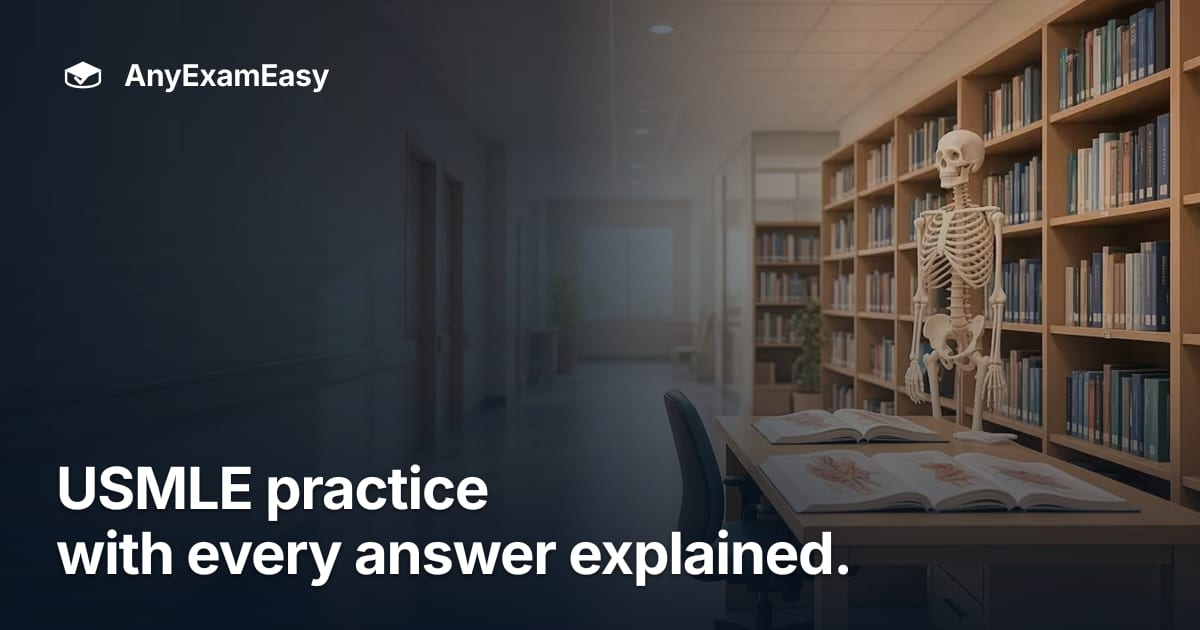
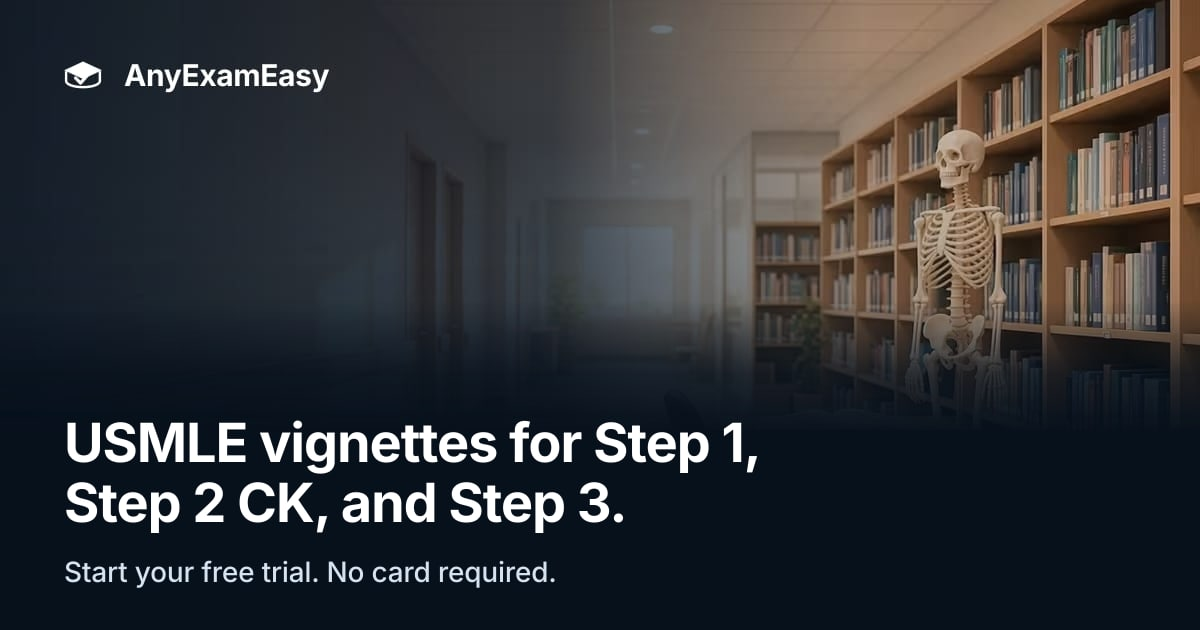
Replace share cards that still show the old price line (#411)
Homepage and board share images use the current headlines and a no-card trial line, and the board page titles and descriptions no longer include the monthly price.

Changed region(s): [[0.0308, 0.4825, 1.0, 0.9651]]

diff --git a/src/lib/marketing/board-landing/hub-model.ts b/src/lib/marketing/board-landing/hub-model.ts
@@ -80,7 +80,8 @@ const HUB_COPY: Record<HubExamKey, HubCopy> = {
     chipThird: "Anatomy Explorer, timed blocks, and readiness score — one Pro plan.",
     questionNoun: "USMLE questions",
     metaBoardLabel: HUB_META_LABEL.usmle,
-    metaDescription: `USMLE practice questions for Step 1, Step 2 CK, and Step 3 in one qbank. Try a free sample question. Pro is ${formatMonthlyPrice("pro")}/mo after a ${TRIAL_DAYS}-day trial. Cancel anytime.`,
+    metaDescription:
+      "USMLE practice questions for Step 1, Step 2 CK, and Step 3. Step-style vignettes with explanations for every choice and timed practice exams in one qbank.",
     keywords: [
       "USMLE practice questions",
       "USMLE Step 2 CK practice",
@@ -94,7 +95,8 @@ const HUB_COPY: Record<HubExamKey, HubCopy> = {
     chipThird: "Timed practice, readiness score, and six boards on one plan.",
     questionNoun: "PANCE questions",
     metaBoardLabel: HUB_META_LABEL.pance,
-    metaDescription: `PANCE practice questions and physician assistant board prep in a live qbank. Try a free sample question. Pro is ${formatMonthlyPrice("pro")}/mo after a ${TRIAL_DAYS}-day trial.`,
+    metaDescription:
+      "PANCE practice questions that show where the reasoning slips. Physician assistant vignettes, flashcards, a study guide, and timed practice exams.",
     keywords: [
       "PANCE practice questions",
       "PANCE qbank",
@@ -108,7 +110,8 @@ const HUB_COPY: Record<HubExamKey, HubCopy> = {
     chipThird: "Question of the Day, readiness score, and timed full exams.",
     questionNoun: "AANP FNP questions",
     metaBoardLabel: HUB_META_LABEL["aanp-fnp"],
-    metaDescription: `AANP FNP practice questions, nurse practitioner vignettes, and study guide chapters. Try a free sample. Pro is ${formatMonthlyPrice("pro")}/mo after a ${TRIAL_DAYS}-day trial.`,
+    metaDescription:
+      "AANP FNP practice questions across the lifespan. Family nurse practitioner vignettes, flashcards, a study guide, and timed practice exams for test day.",
     keywords: [
       "AANP FNP practice questions",
       "FNP certification prep",
@@ -122,7 +125,8 @@ const HUB_COPY: Record<HubExamKey, HubCopy> = {
     chipThird: "Anatomy Explorer, timed sets, and six boards on Pro.",
     questionNoun: "NPTE-PT questions",
     metaBoardLabel: HUB_META_LABEL["npte-pt"],
-    metaDescription: `NPTE-PT practice questions and physical therapy board prep in a live qbank. Try a free sample question. Pro is ${formatMonthlyPrice("pro")}/mo after a ${TRIAL_DAYS}-day trial.`,
+    metaDescription:
+      "NPTE-PT practice questions that explain the clinical why. Physical therapy scenarios, explanations for each choice, timed practice exams, and 3D anatomy review.",
     keywords: [
       "NPTE practice questions",
       "NPTE-PT qbank",

diff --git a/src/lib/marketing/board-landing/board-landing-copy.ts b/src/lib/marketing/board-landing/board-landing-copy.ts
@@ -1,14 +1,24 @@
-import { TRIAL_DAYS } from "@/lib/billing-config";
-import { formatMonthlyPrice } from "@/lib/site";
+import { boardHeroMarketingCopy } from "@/lib/marketing/board-landing/board-hero-marketing";
+import type { BoardSlug } from "@/lib/marketing/board-landing/board-theme";
 import { getExamSeoConfig, type ExamSeoKey } from "@/lib/seo/exam-config";
 
 /** Visible final band heading (matches primary CTA tone). */
 export const BOARD_LANDING_FINAL_HEADING = "Start free trial.";
 
-/** SEO title for board hubs — truthful trial, fits 60-char budget for every board label. */
+const META_TITLE_SLUG: Record<string, BoardSlug> = {
+  "NCLEX-RN": "nclex",
+  NAPLEX: "naplex",
+  USMLE: "usmle",
+  PANCE: "pance",
+  "AANP FNP": "aanp-fnp",
+  "NPTE-PT": "npte-pt",
+};
+
+/** SEO title for board hubs. Same words as the page H1, with no price. */
 export function boardLandingMetaTitle(boardLabel: string): string {
-  const price = formatMonthlyPrice("pro");
-  return `${boardLabel} Practice Questions + ${TRIAL_DAYS}-Day Free Trial | ${price}/mo`;
+  const slug = META_TITLE_SLUG[boardLabel];
+  if (!slug) return `${boardLabel} Practice Questions`;
+  return boardHeroMarketingCopy(slug).headline;
 }
 
 /** Breadcrumb / kicker board name on `/nclex`, `/npte-pt`, etc. */

diff --git a/src/lib/seo/landing-og-image.test.ts b/src/lib/seo/landing-og-image.test.ts
@@ -41,12 +41,12 @@ describe("landing share images", () => {
 
     const titles = [
       "NCLEX, NAPLEX, PANCE & USMLE Practice Questions",
-      "NCLEX-RN Practice Questions + 5-Day Free Trial | $27.99/mo",
-      "NAPLEX Practice Questions + 5-Day Free Trial | $27.99/mo",
-      "USMLE Practice Questions + 5-Day Free Trial | $27.99/mo",
-      "PANCE Practice Questions + 5-Day Free Trial | $27.99/mo",
-      "AANP FNP Practice Questions + 5-Day Free Trial | $27.99/mo",
-      "NPTE-PT Practice Questions + 5-Day Free Trial | $27.99/mo",
+      "NCLEX-RN questions that match the current test plan.",
+      "NAPLEX questions for the calculations and the drugs.",
+      "USMLE vignettes for Step 1, Step 2 CK, and Step 3.",
+      "PANCE vignettes that show where the reasoning slips.",
+      "AANP FNP vignettes across the lifespan, explained.",
+      "NPTE-PT questions that explain the clinical why.",
     ];
     const urls = pages.map(([, meta]) => imageUrl(meta));
     expect(new Set(urls).size).toBe(pages.length);

diff --git a/src/lib/marketing/board-landing/naplex.test.ts b/src/lib/marketing/board-landing/naplex.test.ts
@@ -44,8 +44,8 @@ describe("NAPLEX landing model", () => {
     expect(title.length).toBeLessThanOrEqual(SEO_TITLE_MAX);
     expect(description.length).toBeGreaterThanOrEqual(SEO_DESC_MIN);
     expect(description.length).toBeLessThanOrEqual(SEO_DESC_MAX);
-    expect(title).toMatch(/NAPLEX practice questions/i);
-    expect(description).toMatch(/\$27\.99/);
+    expect(title).toMatch(/NAPLEX questions/i);
+    expect(description).not.toMatch(/\$|one plan/i);
   });
 
   it("lists only live pharmacy item types and hides zeros", () => {

diff --git a/src/lib/marketing/board-landing/naplex.ts b/src/lib/marketing/board-landing/naplex.ts
@@ -78,7 +78,7 @@ export function naplexMetaTitle(): string {
 
 export function naplexMetaDescription(): string {
   return enforceMetaDescription(
-    `NAPLEX practice questions and pharmacy calculations in one qbank. Try a free practice question. Pro is ${formatMonthlyPrice("pro")}/mo after a ${TRIAL_DAYS}-day trial. Cancel anytime.`,
+    "NAPLEX practice questions for the calculations and the drugs. Pharmacy calculations, drug vignettes, flashcards, and explanations that show the work.",
     "/naplex"
   );
 }

diff --git a/src/lib/marketing/board-landing/model.ts b/src/lib/marketing/board-landing/model.ts
@@ -224,7 +224,7 @@ export function nclexMetaTitle(): string {
 
 export function nclexMetaDescription(): string {
   return enforceMetaDescription(
-    `NCLEX-RN practice questions and a Next Gen NCLEX qbank with NGN case studies. Try a free practice question. Pro is ${formatMonthlyPrice("pro")}/mo after a ${TRIAL_DAYS}-day trial.`,
+    "NCLEX-RN practice questions that match the current test plan, with Next Gen NCLEX case studies, explanations for every choice, and a readiness score.",
     "/nclex"
   );
 }

diff --git a/src/lib/marketing/board-landing/board-schema.test.ts b/src/lib/marketing/board-landing/board-schema.test.ts
@@ -9,7 +9,8 @@ describe("boardLandingMetaTitle", () => {
     for (const label of BOARD_LABELS) {
       const title = boardLandingMetaTitle(label);
       expect(title.length, label).toBeLessThanOrEqual(SEO_TITLE_MAX);
-      expect(title).toMatch(/Practice Questions \+ 5-Day Free Trial \| \$27\.99\/mo$/);
+      expect(title).not.toMatch(/\$/);
+      expect(title).not.toMatch(/one plan/i);
     }
   });
 });

diff --git a/src/lib/marketing/board-landing/model.test.ts b/src/lib/marketing/board-landing/model.test.ts
@@ -31,7 +31,7 @@ describe("NCLEX landing model", () => {
     expect(description.length).toBeLessThanOrEqual(SEO_DESC_MAX);
     expect(description).toMatch(/NCLEX-RN practice questions/i);
     expect(description).toMatch(/Next Gen NCLEX/i);
-    expect(description).toMatch(/\$27\.99/);
+    expect(description).not.toMatch(/\$|one plan/i);
   });
 
   it("uses live counts and hides item types at zero", () => {

diff --git a/src/lib/seo/landing-og-image.ts b/src/lib/seo/landing-og-image.ts
@@ -12,7 +12,7 @@ export const LANDING_OG_HEIGHT = 630;
  * Bump when the card art changes. iMessage and Facebook cache the image URL,
  * so a new query value makes the next scrape fetch the new file.
  */
-export const LANDING_OG_VERSION = "1";
+export const LANDING_OG_VERSION = "2";
 
 export const LANDING_OG_IDS = [
   "home",
